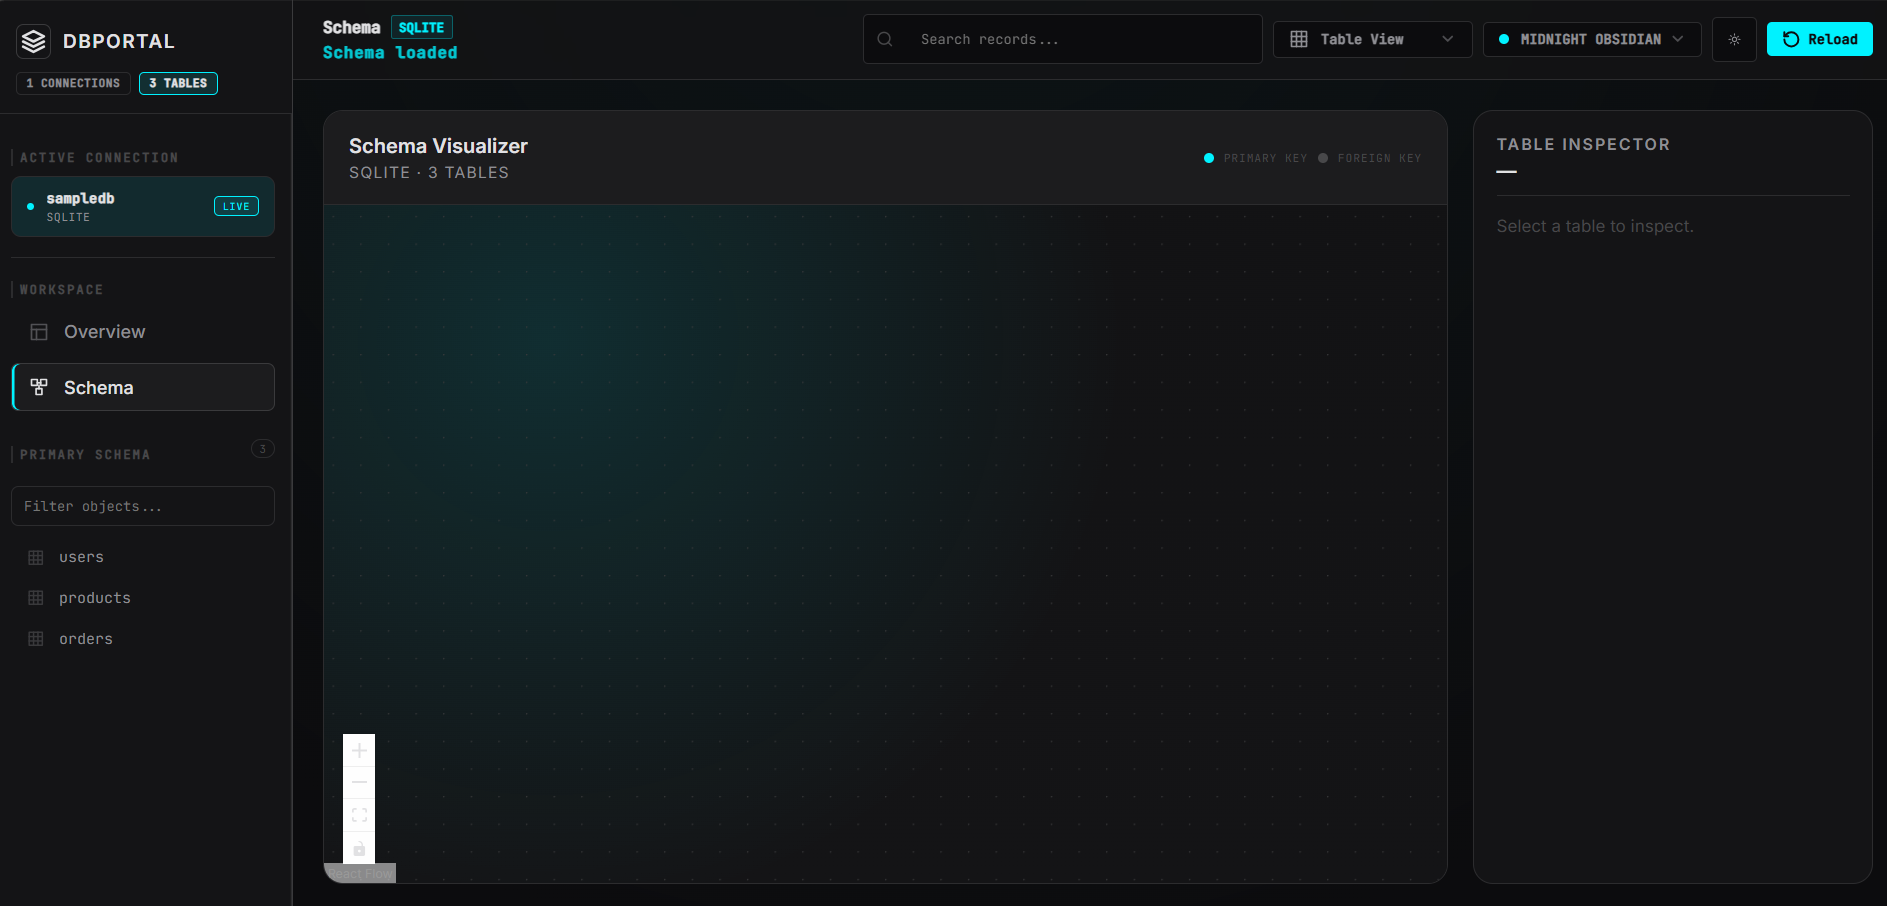
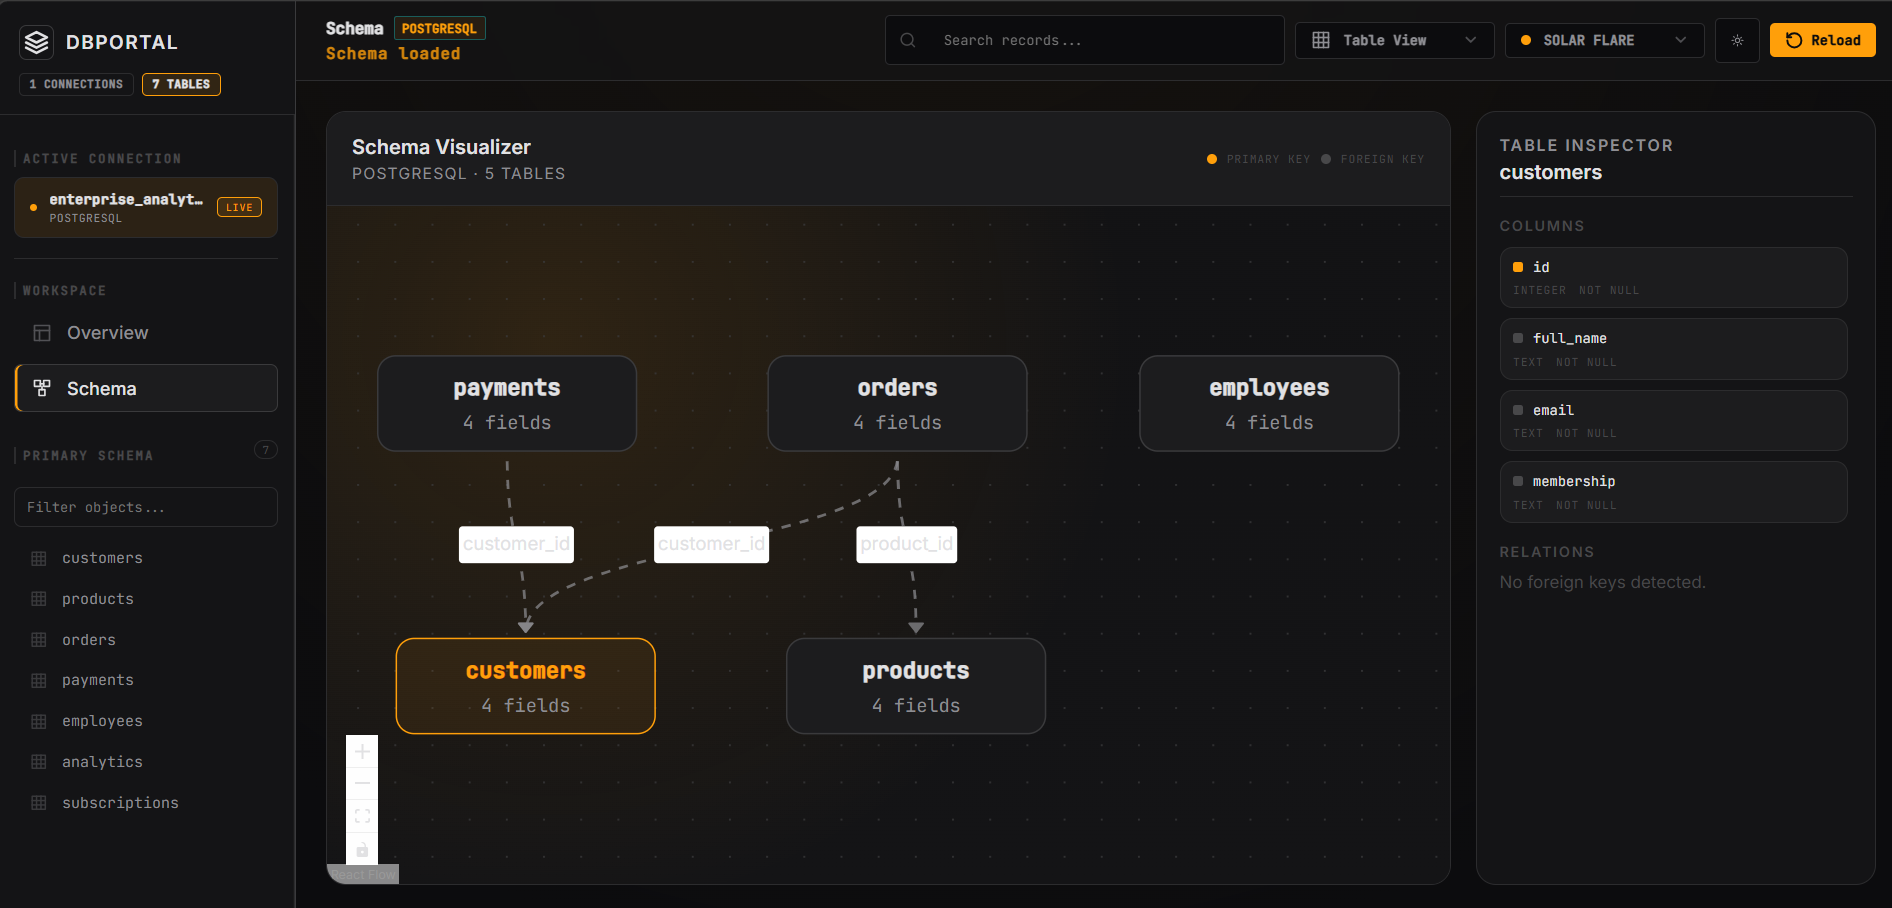
docs: improve README visuals and screenshots

diff --git a/README.md b/README.md
@@ -96,26 +96,45 @@ PORT=3000
 
 Only `DATABASE_URL` is required. Additional numbered URLs are optional.
 
-## Screenshots
+## 📸 Application Screenshots
 
-### Overview Dashboard
+<div align="center">
 
-<p align="center">
-  <img src="assets/overview.png" width="900"/>
-</p>
+### Overview Dashboard — Summary Analytics
 
-### Data Explorer
+![Overview Dashboard](assets/overview_1.png)
 
-<p align="center">
-  <img src="assets/data-explorer.png" width="900"/>
-</p>
+---
 
-### Schema Visualizer
+### Overview Dashboard — Database Insights
 
-<p align="center">
-  <img src="assets/schema-visualiser.png" width="900"/>
-</p>
+![Overview Insights](assets/overview_2.png)
 
+---
+
+### Schema Visualiser
+
+![Schema Visualiser](assets/schema-visualiser.png)
+
+---
+
+### Table View
+
+![Table View](assets/table_view.png)
+
+---
+
+### Card View
+
+![Card View](assets/card_view.png)
+
+---
+
+### Inspector View
+
+![Inspector View](assets/inspector_view.png)
+
+</div>
 
 ## Installation
 